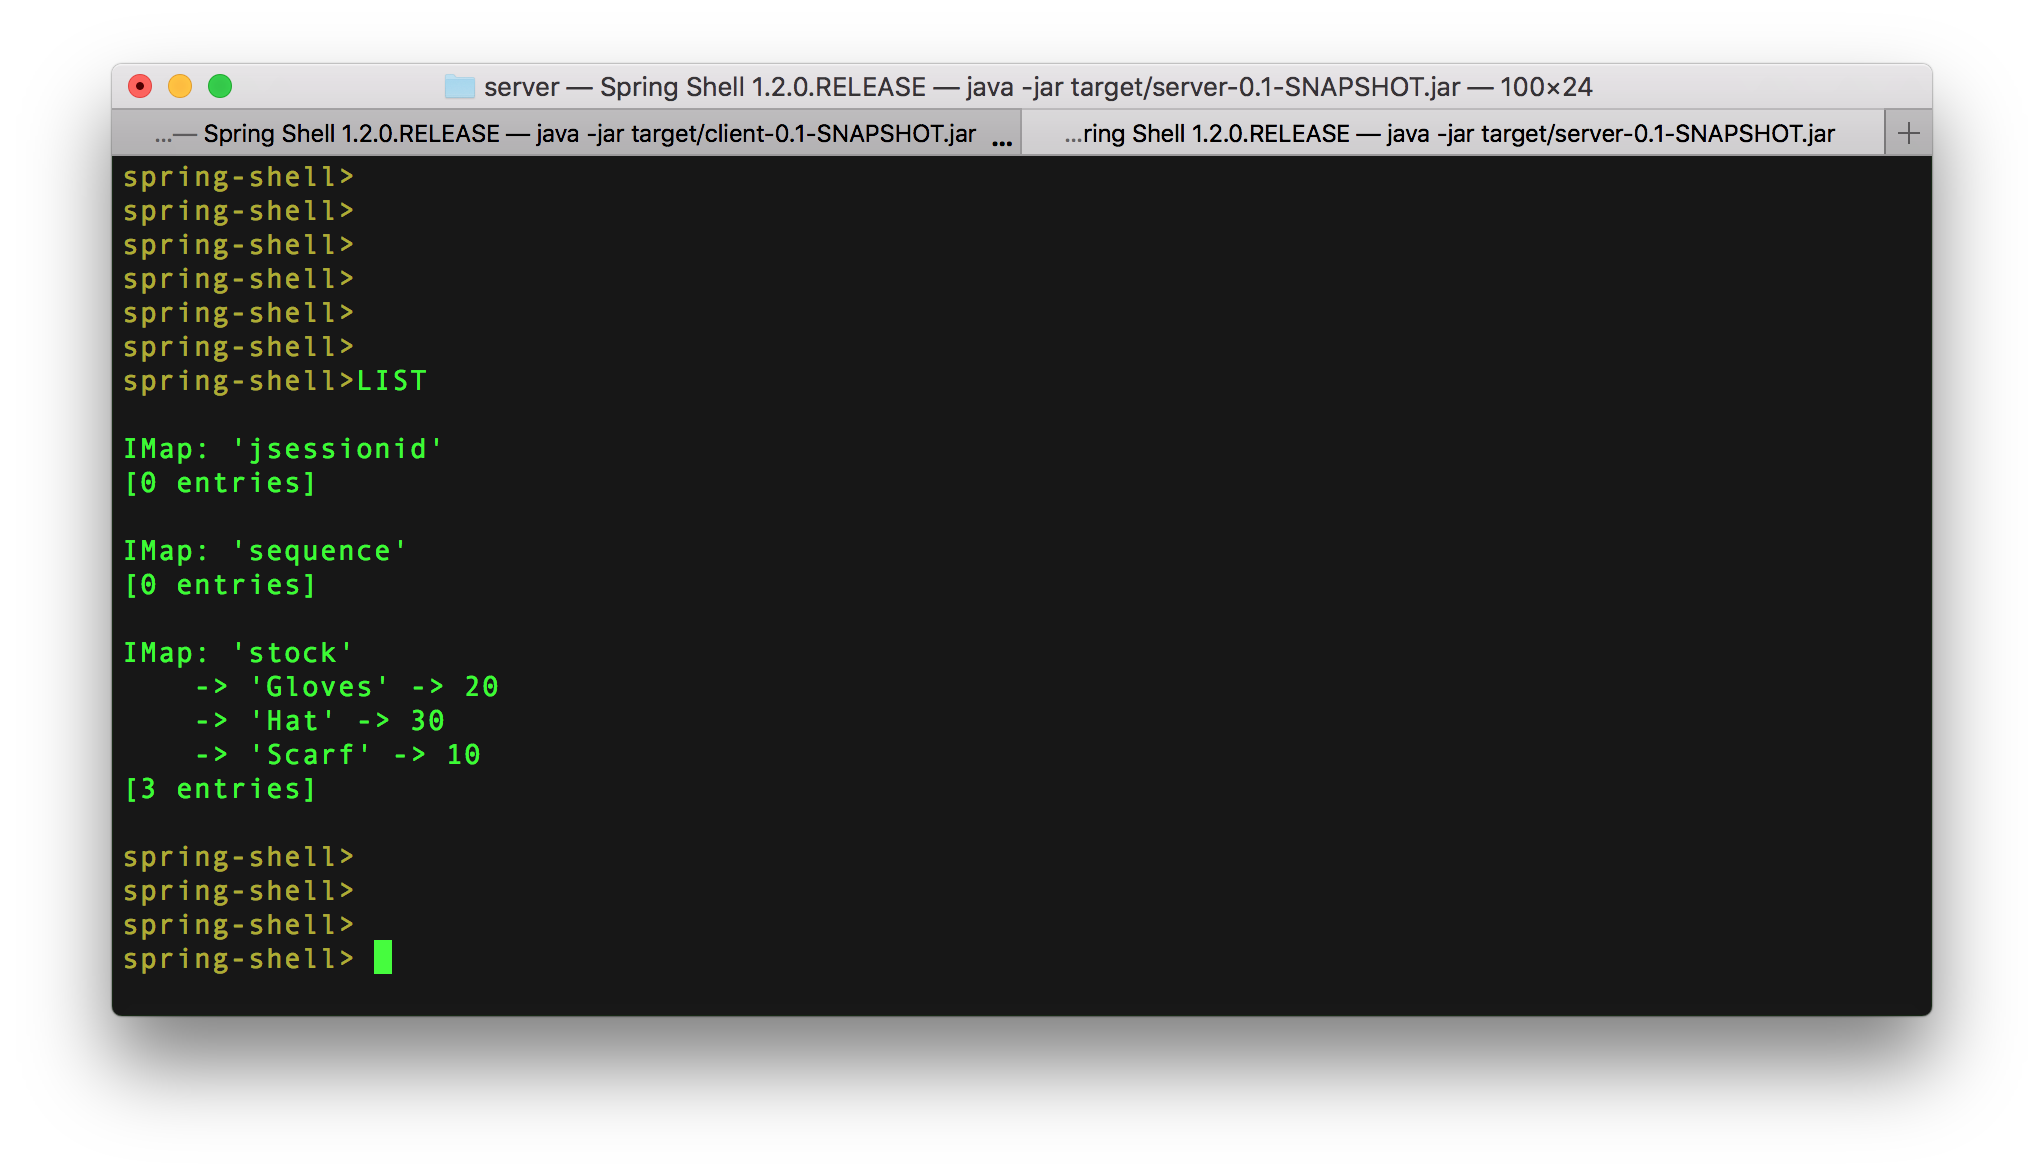
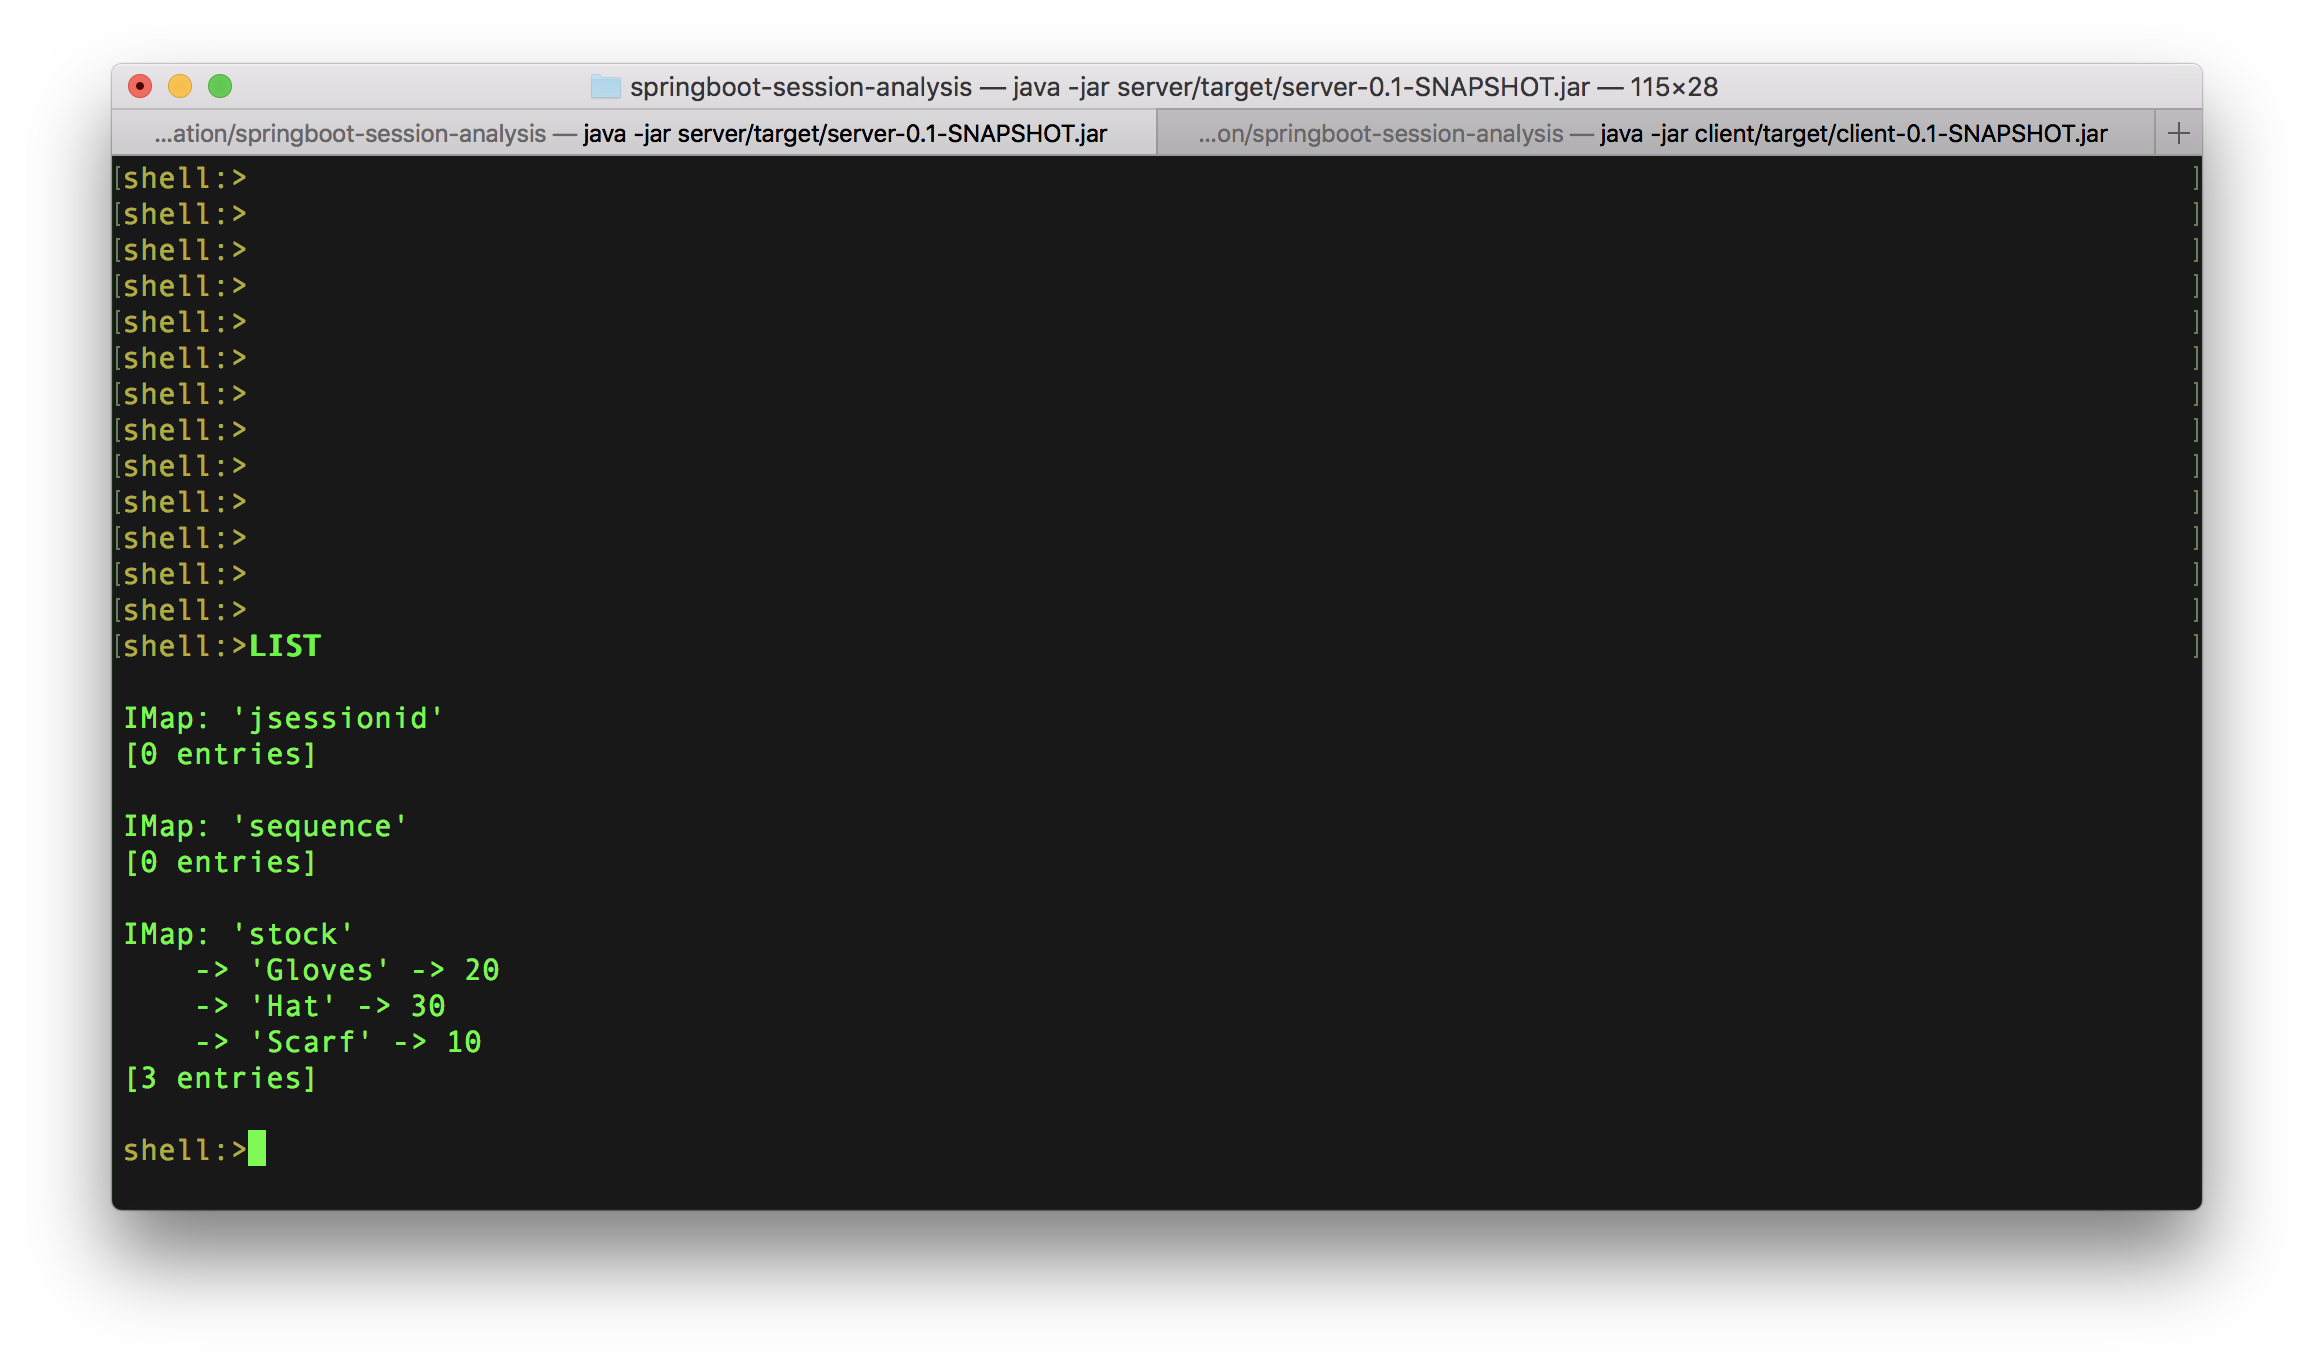
Spring Shell 2.0, and redo screenshots

Changed region(s): [[0.0308, 0.0306, 0.9555, 0.9184]]

diff --git a/hazelcast-integration/springboot-session-analysis/server/src/main/java/com/hazelcast/samples/session/analysis/SequenceAnalysis.java b/hazelcast-integration/springboot-session-analysis/server/src/main/java/com/hazelcast/samples/session/analysis/SequenceAnalysis.java
@@ -28,14 +28,6 @@ import com.hazelcast.web.SessionState;
  * processing pipeline for Jet to run. A processing pipeline
  * is a sequence of steps to transform input into output
  * </p>
- * TODO: PUSH OUT ONCE JET AUTO CONFIG!! 
- * TODO: REDO THE SCREENSHOTS
- * TODO : Trailing space to break checkstyle    
- * TODO: <hazelcast.version>3.10</hazelcast.version>
- * TODO: <hazelcast-jet.version>0.6.1</hazelcast-jet.version>
- * TODO: <hazelcast-wm.version>3.8.3??</hazelcast-wm.version>
- * TODO: <spring-boot.version>2.0.1.RELEASE</spring-boot.version>
- * TODO: <spring-shell.version>2.0.0.RELEASE</spring-shell.version>
  */
 public class SequenceAnalysis {
 
@@ -70,53 +62,53 @@ public class SequenceAnalysis {
      * </p>
      *
      * <p>The method uses these six steps, run in order:
-	 * <pre>
-	 *              +------------+
-	 *              |1   IMap    |
-	 *              |"jsessionid"|
-	 *              |   Journal  |
-	 *              +------------+
-	 *                     |
-	 *                     |
-	 *                     |
-	 *              +------------+
-	 *              |2           |
-	 *              |   Filter   |
-	 *              |            |
-	 *              +------------+
-	 *                     |
-	 *                     |
-	 *                     |
-	 *              +------------+
-	 *              |3           |
-	 *              |  Reformat  |
-	 *              |            |
-	 *              +------------+
-	 *                     |
-	 *                     |
-	 *                     |
-	 *              +------------+
-	 *              |4           |
-	 *              |   Filter   |
-	 *              |            |
-	 *              +------------+
-	 *                     |
-	 *                     |
-	 *                     |
-	 *              +------------+
-	 *              |5           |
-	 *              |  Reformat  |
-	 *              |            |
-	 *              +------------+
-	 *                     |
-	 *                     |
-	 *                     |
-	 *              +------------+
-	 *              |6   IMap    |
-	 *              | "sequence" |
-	 *              | tally sink |
-	 *              +------------+
-	 * </pre>
+     * <pre>
+     *              +------------+
+     *              |1   IMap    |
+     *              |"jsessionid"|
+     *              |   Journal  |
+     *              +------------+
+     *                     |
+     *                     |
+     *                     |
+     *              +------------+
+     *              |2           |
+     *              |   Filter   |
+     *              |            |
+     *              +------------+
+     *                     |
+     *                     |
+     *                     |
+     *              +------------+
+     *              |3           |
+     *              |  Reformat  |
+     *              |            |
+     *              +------------+
+     *                     |
+     *                     |
+     *                     |
+     *              +------------+
+     *              |4           |
+     *              |   Filter   |
+     *              |            |
+     *              +------------+
+     *                     |
+     *                     |
+     *                     |
+     *              +------------+
+     *              |5           |
+     *              |  Reformat  |
+     *              |            |
+     *              +------------+
+     *                     |
+     *                     |
+     *                     |
+     *              +------------+
+     *              |6   IMap    |
+     *              | "sequence" |
+     *              | tally sink |
+     *              +------------+
+     * </pre>
      * <ol>
      * <li><b>Source</b>
      * <p>The source here is a map journal attached to the map that stores
